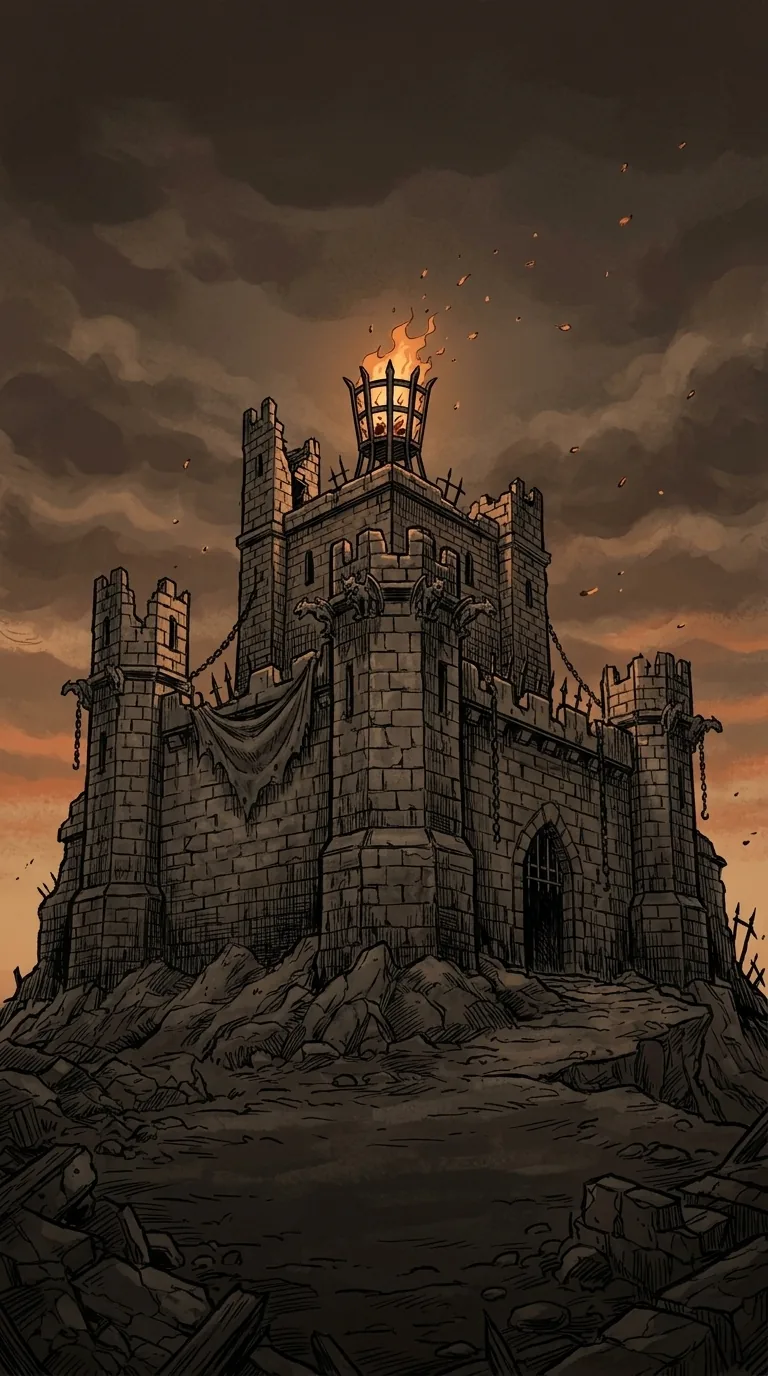
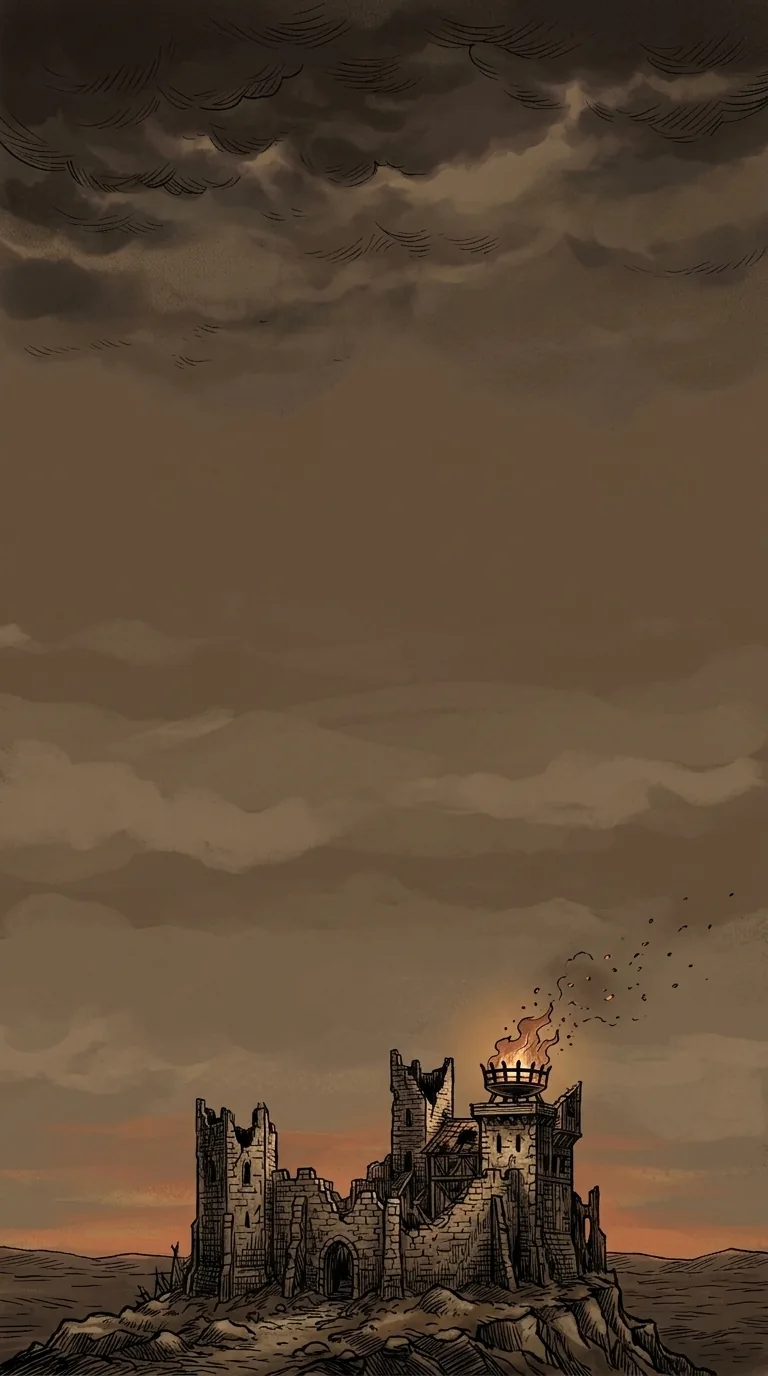
feat(pantallas_b): T11 key_art regenerado (ronda 2: sujeto en el cuarto inferior), mediciones y capturas del menu

diff --git a/art-b/menu/perfil_vertical.js b/art-b/menu/perfil_vertical.js
@@ -1,0 +1,32 @@
+// Perfil vertical del key art: por banda del 5 % de alto, luminancia media, energia de borde (gradiente medio)
+// y porcentaje de pixeles "calidos brillantes" (llama: R>180, R>G+40). Sirve para ver dónde está el sujeto
+// frente a la franja que tapa el bloque del menú (22–76 %). Uso:
+// NODE_PATH=D:/Proyectos/kingdoms-harvest/node_modules node art-b/menu/perfil_vertical.js [archivo.webp]
+const sharp = require('sharp');
+const path = require('path');
+const fs = require('fs');
+const file = process.argv[2] || path.join(__dirname, '..', '..', 'client/public/assets/b/menu/key_art.webp');
+(async () => {
+  const { data, info } = await sharp(file).removeAlpha().raw().toBuffer({ resolveWithObject: true });
+  const { width: w, height: h } = info;
+  const lum = (x, y) => { const i = (y * w + x) * 3; return 0.2126 * data[i] + 0.7152 * data[i + 1] + 0.0722 * data[i + 2]; };
+  const rows = [];
+  for (let b = 0; b < 20; b++) {
+    const y0 = Math.floor((b * h) / 20), y1 = Math.floor(((b + 1) * h) / 20);
+    let sl = 0, sg = 0, hot = 0, n = 0;
+    for (let y = y0; y < y1 - 1; y++) for (let x = 0; x < w - 1; x++) {
+      const l = lum(x, y); sl += l; n++;
+      sg += Math.abs(l - lum(x + 1, y)) + Math.abs(l - lum(x, y + 1));
+      const i = (y * w + x) * 3; if (data[i] > 180 && data[i] > data[i + 1] + 40) hot++;
+    }
+    rows.push({ desdePct: b * 5, hastaPct: (b + 1) * 5, lumMedia: +(sl / n).toFixed(1), bordes: +(sg / n).toFixed(1), calidoBrillantePct: +((100 * hot) / n).toFixed(2) });
+  }
+  const franja = rows.filter((r) => r.desdePct >= 25 && r.hastaPct <= 75);
+  const resto = rows.filter((r) => r.hastaPct <= 20 || r.desdePct >= 80);
+  const avg = (a, k) => +(a.reduce((s, r) => s + r[k], 0) / a.length).toFixed(1);
+  const out = { archivo: path.basename(file), w, h, bandas: rows,
+    resumen: { franja25_75: { lum: avg(franja, 'lumMedia'), bordes: avg(franja, 'bordes') }, fuera: { lum: avg(resto, 'lumMedia'), bordes: avg(resto, 'bordes') } } };
+  console.log(JSON.stringify(out.resumen));
+  console.log(rows.map((r) => `${String(r.desdePct).padStart(2)}-${String(r.hastaPct).padStart(3)}%  lum ${String(r.lumMedia).padStart(5)}  bordes ${String(r.bordes).padStart(5)}  calido ${r.calidoBrillantePct}`).join('\n'));
+  if (process.argv[3]) fs.writeFileSync(process.argv[3], JSON.stringify(out, null, 1));
+})();

diff --git a/art-b/menu/contacto.js b/art-b/menu/contacto.js
@@ -1,0 +1,24 @@
+// Hoja de contacto de la puerta de arte: key_art | marca | reinos (3 columnas, alto 900) y
+// hoja de capturas del menu con arte (3 celulares lado a lado).
+// Uso: NODE_PATH=D:/Proyectos/kingdoms-harvest/node_modules node art-b/menu/contacto.js
+const sharp = require('sharp');
+const path = require('path');
+const ROOT = path.join(__dirname, '..', '..');
+const A = path.join(ROOT, 'client/public/assets/b');
+const E = path.join(ROOT, 'specs/pantallas_b/evidencia');
+async function fila(files, h, out) {
+  const bufs = [];
+  for (const f of files) bufs.push(await sharp(f).resize({ height: h }).png().toBuffer());
+  const metas = await Promise.all(bufs.map((b) => sharp(b).metadata()));
+  const gap = 12;
+  const W = metas.reduce((s, m) => s + m.width, 0) + gap * (bufs.length - 1);
+  let x = 0;
+  const comp = bufs.map((b, i) => { const c = { input: b, left: x, top: 0 }; x += metas[i].width + gap; return c; });
+  await sharp({ create: { width: W, height: h, channels: 3, background: '#14110d' } }).composite(comp).webp({ quality: 80 }).toFile(out);
+}
+(async () => {
+  await fila([path.join(A, 'menu/key_art.webp'), path.join(A, 'map/marca.webp'), path.join(A, 'map/reinos.webp')], 900, path.join(E, 'arte/contacto_arte.webp'));
+  const d = ['galaxy-a-360x740', 'android-360x800', 'pixel7-412x915'].map((n) => path.join(E, 'despues_arte', `${n}__menu.webp`));
+  await fila(d, 900, path.join(E, 'arte/contacto_menu_con_arte.webp'));
+  console.log('ok');
+})();

diff --git a/specs/pantallas_b/evidencia/aprobacion_arte.md b/specs/pantallas_b/evidencia/aprobacion_arte.md
@@ -79,3 +79,31 @@ Editar el prompt en `art-b/menu/manifest.json` y correr (el perfil ya tiene sesi
 `NODE_PATH=D:/Proyectos/kingdoms-harvest/node_modules node scripts/gen_art_web.js --manifest art-b/menu/manifest.json --only <id> --force`, luego `node art-b/menu/process.js`. No hay que tocar código: `MainMenu` y `useMapBackground` pintan lo que haya en esas rutas.
 
 Nota de entorno: `msedge` no está en la ruta estándar de Playwright en esta máquina; se lanzó con un wrapper local (fuera del repo) que fuerza `executablePath` de EdgeCore 156. No se modificó `gen_art_web.js`.
+
+## Ronda 2 (2026-10-31) — `key_art` regenerado, pendiente de veredicto de p-kh
+
+- Solo se regeneró `menu/key_art.webp` (1 llamada web, `gen_art_web.js --only key_art --force`, mismo aspect 9:16 y misma ref). `marca` y `reinos` no cambian (re-procesados: bytes idénticos, `git status` sin cambios en ellos). La versión anterior queda en `D:/Proyectos/_ops/art-raw/pantallas_b_menu/key_art_v1.png` (fuera del repo).
+- Prompt: el que dejó p-kh arriba, tal cual, ya en `art-b/menu/manifest.json` (id `key_art`).
+- Nota de entorno: `msedge` no está en la ruta de Playwright; se lanzó con un wrapper local (fuera del repo) que fuerza `executablePath` de EdgeCore 156. `gen_art_web.js` no se tocó.
+- Archivo: `client/public/assets/b/menu/key_art.webp`, 768×1376, **60,6 KB** (≤ 250 KB).
+- Hojas para mirar: `evidencia/arte/contacto_arte.webp` (key_art | marca | reinos) y `evidencia/arte/contacto_menu_con_arte.webp` (menú con arte en 360×740 | 360×800 | 412×915). Capturas: `evidencia/despues_arte/*__menu.webp` (reemplazadas; Sistema y Galaxia no cambian).
+- **El implementer no tiene visión de imagen**: lo de abajo son mediciones, no sustituyen la mirada de p-kh. Hay que confirmar a ojo: sin texto horneado, sin verde, castillo en ruinas en el cuarto inferior, cielo calmo detrás de título y botones, estilo coherente con B.
+
+### Mediciones (`art-b/menu/perfil_vertical.js` → `evidencia/arte/perfil_vertical_key_art.json`)
+
+Energía de borde (gradiente medio de luminancia) y luminancia por banda del 5 % de alto:
+
+| Franja | v1 (anterior) | v2 (nueva) |
+|---|---|---|
+| 25–75 % (detrás del bloque del menú): bordes / lum | 15,6 / 60,7 | **0,6 / 86,4** |
+| fuera (0–20 % y 80–100 %): bordes / lum | 3,4 / 35,0 | 11,5 / 58,4 |
+
+- Todo el detalle está ahora en 75–100 % (bordes 7–23 por banda); la banda 25–75 % queda lisa (bordes ≤ 2,1 salvo 70–75 %). Píxeles cálidos brillantes (llama, R>180 y R>G+40): 0 % por encima del 75 %, 1,05 % en 75–80 % (la llama arranca en el borde del cuarto inferior, no en la franja del menú).
+- Riesgo a mirar: la franja calma es **lisa y algo más clara** (lum 80–104) que la v1 (cielo plano de aguada, casi sin rayado), por lo que puede leerse «vacía»; si p-kh la quiere con rayado denso, hay que pedirlo en otra vuelta.
+- **R22** (contraste de texto con la capa `ink` 0,7, por tercio; `contraste_menu.json`): `bone` p95 9,7–11,3; `brass-light` p95 6,9–8,1; `bone-dim` p95 4,9–5,7 y p99 4,6–5,3 → todo ≥ 4,5 incluso en el 1 % más claro.
+- Capturas: 3 dispositivos, `errores: []`, `nBotones` 2 (igual que antes), `botonesBajo44` vacío. Media de luminancia de la captura del menú con arte: 44–46 (con v1: ver `comparacion_capturas.json` de bfd37cd).
+- Servicios de captura (Vite :5173 y server :3001 propios, con `SKIP_AUTH`) bajados al terminar; no se tocaron :3101 ni :5180.
+
+### Si p-kh dice `REGENERAR` otra vez
+
+Alternativa ya propuesta arriba: mover el bloque del menú (`justify-end` con margen inferior en `MainMenu.jsx`), decisión del leader porque toca T9.

diff --git a/specs/pantallas_b/tasks.md b/specs/pantallas_b/tasks.md
@@ -39,4 +39,4 @@ Orden de ejecución. Nada se marca `[x]` sin `Evidencia:` inline (comando + cont
   Evidencia: `cd server && npx jest --runInBand --forceExit` → 30 suites, 464 passed; `cd client && npx vitest run` → 27 files, 474 passed (incluye `iconSheet`, ahora con node_modules); `cd client && npm run build` → `✓ built in 9.92s`; `git diff --stat feat/art-direction-b -- server shared client/src/game AppFrame.jsx viewport.js client/src/index.css` → vacío. Capturas finales = las de T10 (`evidencia/despues/`), comparadas contra `antes/` en `comparacion.md`; no se comparó contra `2026-10-28-01-11_base` (solo trae hub/heroes/achievements, no menú ni mapas). Parcial: la parte de arte de R5/R48 depende de T11.
 
 ## Bloqueado
-T11 (puerta de arte): el arte ya está generado y puesto en su ruta (vía web de Gemini); falta el veredicto de p-kh en `evidencia/aprobacion_arte.md` (hoja `evidencia/arte/contacto_arte.webp`). Con `APROBADO` se marca T11 `[x]`; con `REGENERAR` se sigue el apartado de ese archivo. R24/R33 (fallback plano) siguen cumplidas.
+T11 (puerta de arte, 2.ª ronda): p-kh dio `REGENERAR key_art` (marca y reinos APROBADOS). Se regeneró `menu/key_art.webp` con el prompt nuevo (sujeto en el cuarto inferior); falta el veredicto de p-kh sobre esa pieza en `evidencia/aprobacion_arte.md` (apartado «Ronda 2»; hoja `evidencia/arte/contacto_arte.webp`). Con `APROBADO` se marca T11 `[x]` y se corre la suite completa + build; con `REGENERAR` otra vuelta. R24/R33 (fallback plano) siguen cumplidas.
